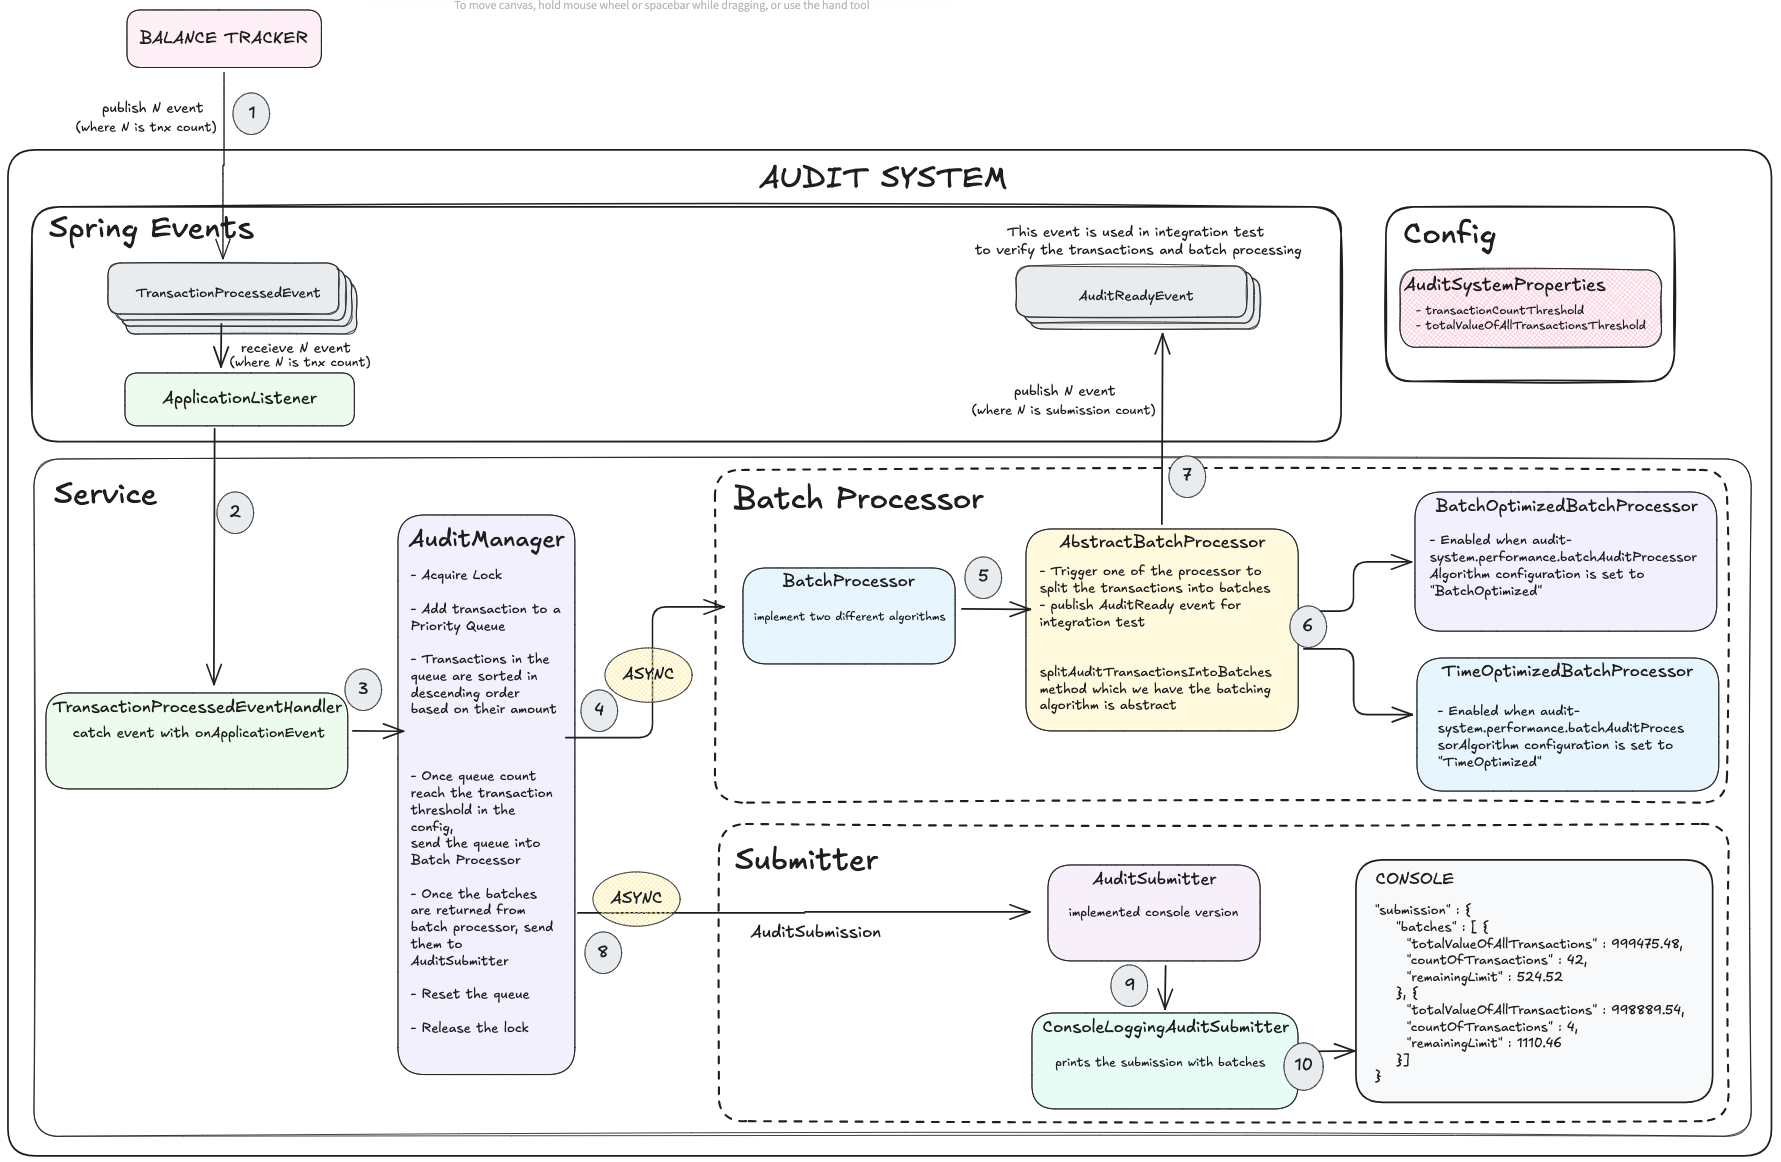
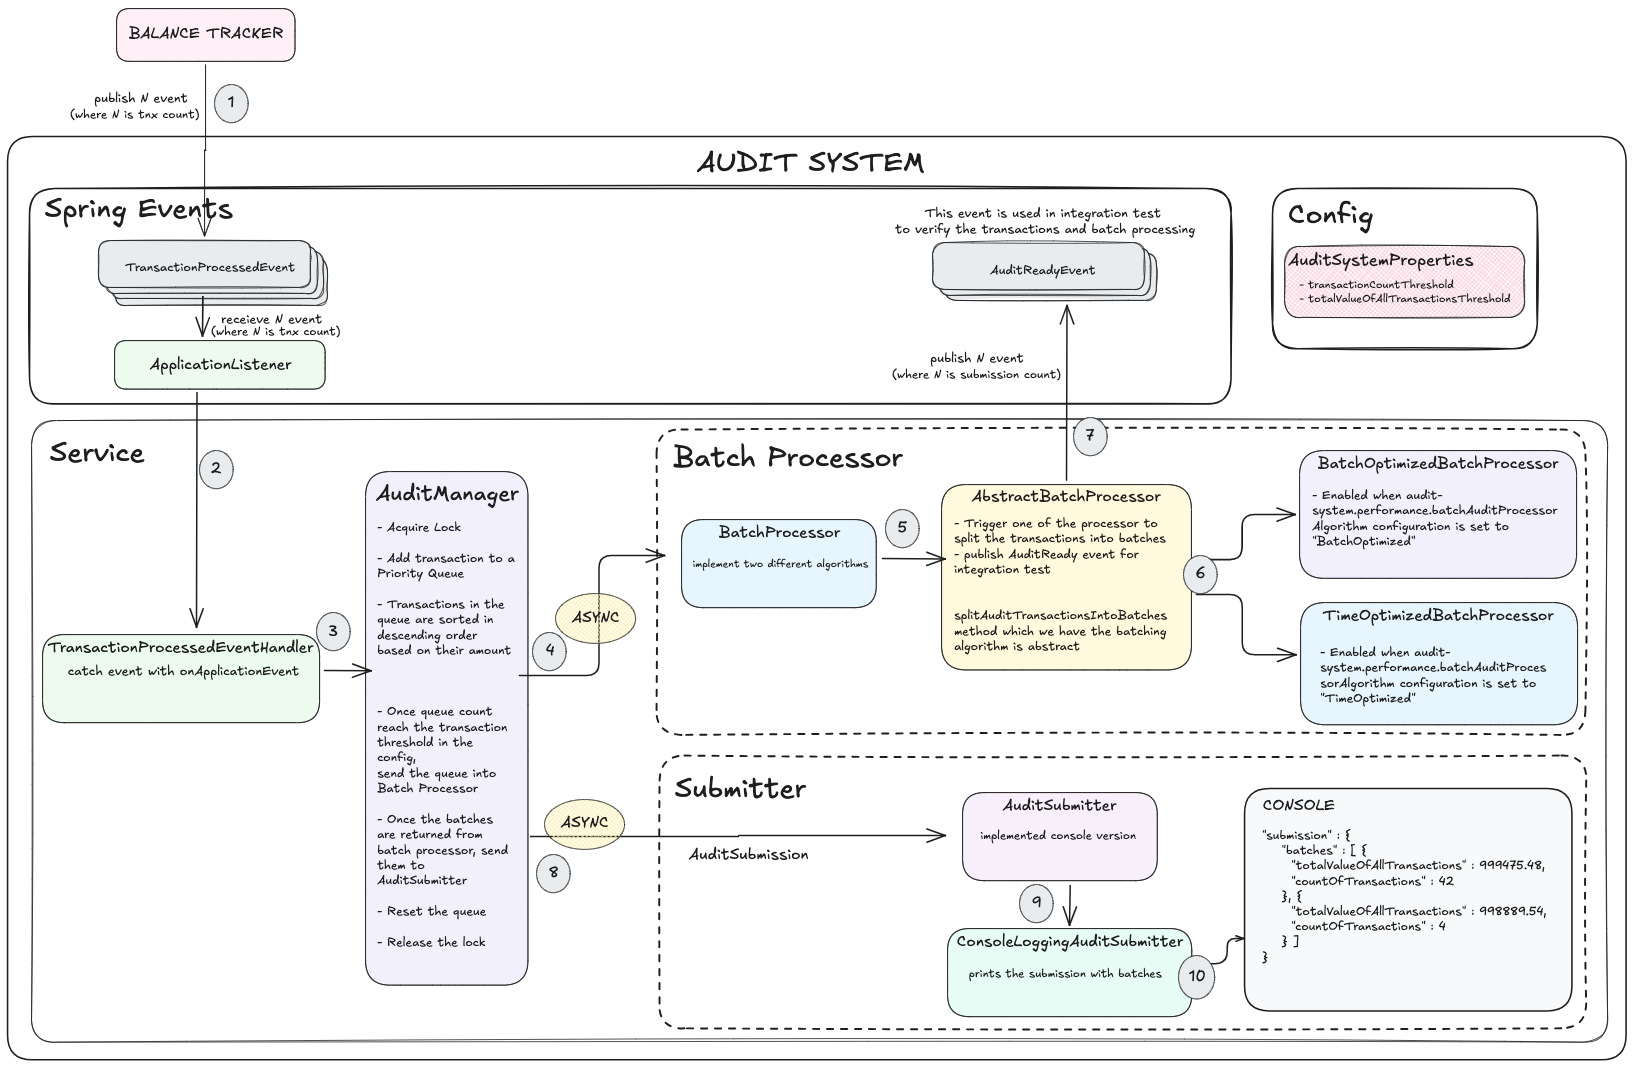
unit-test - Updated audit system design flow, add json ignore to Batch for remainingLimit

diff --git a/src/test/java/com/volkanyungul/bank_account/auditsystem/service/AuditManagerTest.java b/src/test/java/com/volkanyungul/bank_account/auditsystem/service/AuditManagerTest.java
@@ -36,10 +36,10 @@ class AuditManagerTest {
     private AuditManager auditManager;
 
     @Mock
-    private BatchProcessor batchProcessor;
+    private BatchProcessor mockBatchProcessor;
 
     @Mock
-    private AuditSystemProperties auditSystemProperties;
+    private AuditSystemProperties mockAuditSystemProperties;
 
     @Mock
     private ConsoleLoggingAuditSubmitter mockConsoleLoggingAuditSubmitter;
@@ -64,18 +64,18 @@ class AuditManagerTest {
     @SuppressWarnings("unchecked")
     void shouldSortTheAddedTransactionsAndSendToAuditProcessorInCorrectOrder() {
         // given
-        when(auditSystemProperties.getTransactionCountThreshold()).thenReturn(2L);
+        when(mockAuditSystemProperties.getTransactionCountThreshold()).thenReturn(2L);
         String smallAmountTransactionId = "id1";
         String bigAmountTransactionId = "id2";
         Transaction smallAmountTransaction = Transaction.builder().id(smallAmountTransactionId).transactionType(CREDIT).amount(new BigDecimal("100")).build();
         Transaction highAmountTransaction = Transaction.builder().id(bigAmountTransactionId).transactionType(CREDIT).amount(new BigDecimal("200")).build();
-        when(batchProcessor.process(any())).thenReturn(CompletableFuture.completedFuture(List.of(new Batch(new BigDecimal("10")), new Batch(new BigDecimal("20")))));
+        when(mockBatchProcessor.process(any())).thenReturn(CompletableFuture.completedFuture(List.of(new Batch(new BigDecimal("10")), new Batch(new BigDecimal("20")))));
         // when
         auditManager.receiveTransaction(smallAmountTransaction);
         auditManager.receiveTransaction(highAmountTransaction);
         // then
         ArgumentCaptor<PriorityQueue<Transaction>> priorityQueueArgumentCaptor = ArgumentCaptor.forClass(PriorityQueue.class);
-        verify(batchProcessor, times(1)).process(priorityQueueArgumentCaptor.capture());
+        verify(mockBatchProcessor, times(1)).process(priorityQueueArgumentCaptor.capture());
         PriorityQueue<Transaction> auditProcessorSubmittedTransactions = priorityQueueArgumentCaptor.getValue();
         assertFalse(auditProcessorSubmittedTransactions.isEmpty());
 
@@ -93,7 +93,7 @@ class AuditManagerTest {
     void shouldReceiveTransactionWhenTransactionCountNotReachedTheThreshold() {
         // given
         // when
-        when(auditSystemProperties.getTransactionCountThreshold()).thenReturn(3L);
+        when(mockAuditSystemProperties.getTransactionCountThreshold()).thenReturn(3L);
         auditManager.receiveTransaction(transaction1);
         auditManager.receiveTransaction(transaction2);
         // then
@@ -108,8 +108,8 @@ class AuditManagerTest {
     @SuppressWarnings("unchecked")
     void shouldReceiveTransactionWhenTransactionCountReachedTheThreshold() {
         // given
-        when(auditSystemProperties.getTransactionCountThreshold()).thenReturn(2L);
-        when(batchProcessor.process(any())).thenReturn(CompletableFuture.completedFuture(List.of(new Batch(new BigDecimal("10")), new Batch(new BigDecimal("20")))));
+        when(mockAuditSystemProperties.getTransactionCountThreshold()).thenReturn(2L);
+        when(mockBatchProcessor.process(any())).thenReturn(CompletableFuture.completedFuture(List.of(new Batch(new BigDecimal("10")), new Batch(new BigDecimal("20")))));
         // when
         auditManager.receiveTransaction(transaction1);
         auditManager.receiveTransaction(transaction2);
@@ -127,8 +127,8 @@ class AuditManagerTest {
     @SuppressWarnings("unchecked")
     void shouldTestQueueEmptyWhenAllTheTransactionsAreSubmittedToTheAuditProcessor() {
         // given
-        when(auditSystemProperties.getTransactionCountThreshold()).thenReturn(2L);
-        when(batchProcessor.process(any())).thenReturn(CompletableFuture.completedFuture(List.of(new Batch(new BigDecimal("10")), new Batch(new BigDecimal("20")))));
+        when(mockAuditSystemProperties.getTransactionCountThreshold()).thenReturn(2L);
+        when(mockBatchProcessor.process(any())).thenReturn(CompletableFuture.completedFuture(List.of(new Batch(new BigDecimal("10")), new Batch(new BigDecimal("20")))));
         // when
         auditManager.receiveTransaction(transaction1);
         auditManager.receiveTransaction(transaction2);
@@ -141,14 +141,14 @@ class AuditManagerTest {
     @SuppressWarnings("unchecked")
     void prepareBatchAndResetQueue() {
         // given
-        when(auditSystemProperties.getTransactionCountThreshold()).thenReturn(2L);
-        when(batchProcessor.process(any())).thenReturn(CompletableFuture.completedFuture(List.of(new Batch(new BigDecimal("10")), new Batch(new BigDecimal("20")))));
+        when(mockAuditSystemProperties.getTransactionCountThreshold()).thenReturn(2L);
+        when(mockBatchProcessor.process(any())).thenReturn(CompletableFuture.completedFuture(List.of(new Batch(new BigDecimal("10")), new Batch(new BigDecimal("20")))));
         // when
         auditManager.receiveTransaction(transaction1);
         auditManager.receiveTransaction(transaction2);
         // then
         ArgumentCaptor<PriorityQueue<Transaction>> priorityQueueArgumentCaptor = ArgumentCaptor.forClass(PriorityQueue.class);
-        verify(batchProcessor, times(1)).process(priorityQueueArgumentCaptor.capture());
+        verify(mockBatchProcessor, times(1)).process(priorityQueueArgumentCaptor.capture());
         PriorityQueue<Transaction> auditProcessorSubmittedTransactions = priorityQueueArgumentCaptor.getValue();
         assertFalse(auditProcessorSubmittedTransactions.isEmpty());
 

diff --git a/src/test/java/com/volkanyungul/bank_account/balancetracker/service/BankAccountServiceImplTest.java b/src/test/java/com/volkanyungul/bank_account/balancetracker/service/BankAccountServiceImplTest.java
@@ -35,10 +35,10 @@ class BankAccountServiceImplTest {
     private BankAccountServiceImpl bankAccountService;
 
     @Mock
-    private BalanceRepository balanceRepository;
+    private BalanceRepository mockBalanceRepository;
 
     @Mock
-    private ApplicationEventPublisher applicationEventPublisher;
+    private ApplicationEventPublisher mockApplicationEventPublisher;
 
     private Transaction transaction;
 
@@ -59,28 +59,28 @@ class BankAccountServiceImplTest {
         createThreadsAndTriggerProcessTransactionForTwoSeconds(executorService);
         // then
         int expectedExecutionCount = debitProcessCount.addAndGet(creditProcessCount.get());
-        verify(balanceRepository, times(expectedExecutionCount)).add(any());
-        verify(applicationEventPublisher, times(expectedExecutionCount)).publishEvent(any());
+        verify(mockBalanceRepository, times(expectedExecutionCount)).add(any());
+        verify(mockApplicationEventPublisher, times(expectedExecutionCount)).publishEvent(any());
     }
 
     @Test
     void shouldSendBalanceToRepoAndTriggerPublisherWhenProcessingTransaction() {
         // given
-        doNothing().when(balanceRepository).add(any());
+        doNothing().when(mockBalanceRepository).add(any());
         // when
         bankAccountService.processTransaction(transaction);
         // then
         ArgumentCaptor<TransactionProcessedEvent> transactionProcessedEventArgumentCaptor = ArgumentCaptor.forClass(TransactionProcessedEvent.class);
-        verify(applicationEventPublisher, times(1)).publishEvent(transactionProcessedEventArgumentCaptor.capture());
+        verify(mockApplicationEventPublisher, times(1)).publishEvent(transactionProcessedEventArgumentCaptor.capture());
         assertEquals(transaction, transactionProcessedEventArgumentCaptor.getValue().getTransaction());
-        verify(balanceRepository, times(1)).add(any());
+        verify(mockBalanceRepository, times(1)).add(any());
     }
 
     @Test
     void shouldRetrieveBalanceFromRepository() {
         // given
         BigDecimal expectedBalance = new BigDecimal("397750.43");
-        when(balanceRepository.retrieve()).thenReturn(expectedBalance);
+        when(mockBalanceRepository.retrieve()).thenReturn(expectedBalance);
         // when
         double balance = bankAccountService.retrieveBalance();
         // then

diff --git a/src/test/java/com/volkanyungul/bank_account/auditsystem/service/batchprocessor/TimeOptimizedBatchProcessorTest.java b/src/test/java/com/volkanyungul/bank_account/auditsystem/service/batchprocessor/TimeOptimizedBatchProcessorTest.java
@@ -51,7 +51,7 @@ class TimeOptimizedBatchProcessorTest {
                 new PriorityQueue<>(Comparator.comparing(transaction -> transaction.amount().abs(), Comparator.reverseOrder()));
         auditTransactionsPriorityQueue.addAll(createMockTransactions());
 
-        var batchAuditNonRevisitingBatchesProcessor = new TimeOptimizedBatchProcessor(mockConsoleLoggingAuditSubmitter, mockApplicationEventPublisher, mockAuditSystemProperties);
+        var batchAuditNonRevisitingBatchesProcessor = new TimeOptimizedBatchProcessor(mockApplicationEventPublisher, mockAuditSystemProperties);
         when(mockAuditSystemProperties.getTotalValueOfAllTransactionsThreshold()).thenReturn(new BigDecimal("10"));
         // when
         CompletableFuture<List<Batch>> batchesFuture = batchAuditNonRevisitingBatchesProcessor.process(auditTransactionsPriorityQueue);

diff --git a/src/main/java/com/volkanyungul/bank_account/auditsystem/dto/Batch.java b/src/main/java/com/volkanyungul/bank_account/auditsystem/dto/Batch.java
@@ -1,5 +1,6 @@
 package com.volkanyungul.bank_account.auditsystem.dto;
 
+import com.fasterxml.jackson.annotation.JsonIgnore;
 import com.volkanyungul.bank_account.producer.dto.Transaction;
 
 import java.math.BigDecimal;
@@ -32,6 +33,7 @@ public class Batch {
         return getRemainingLimit().compareTo(transaction.amount().abs()) >= 0;
     }
 
+    @JsonIgnore
     public BigDecimal getRemainingLimit() {
         return this.valueOfTransactionLimit.subtract(totalValueOfAllTransactions.get());
     }
